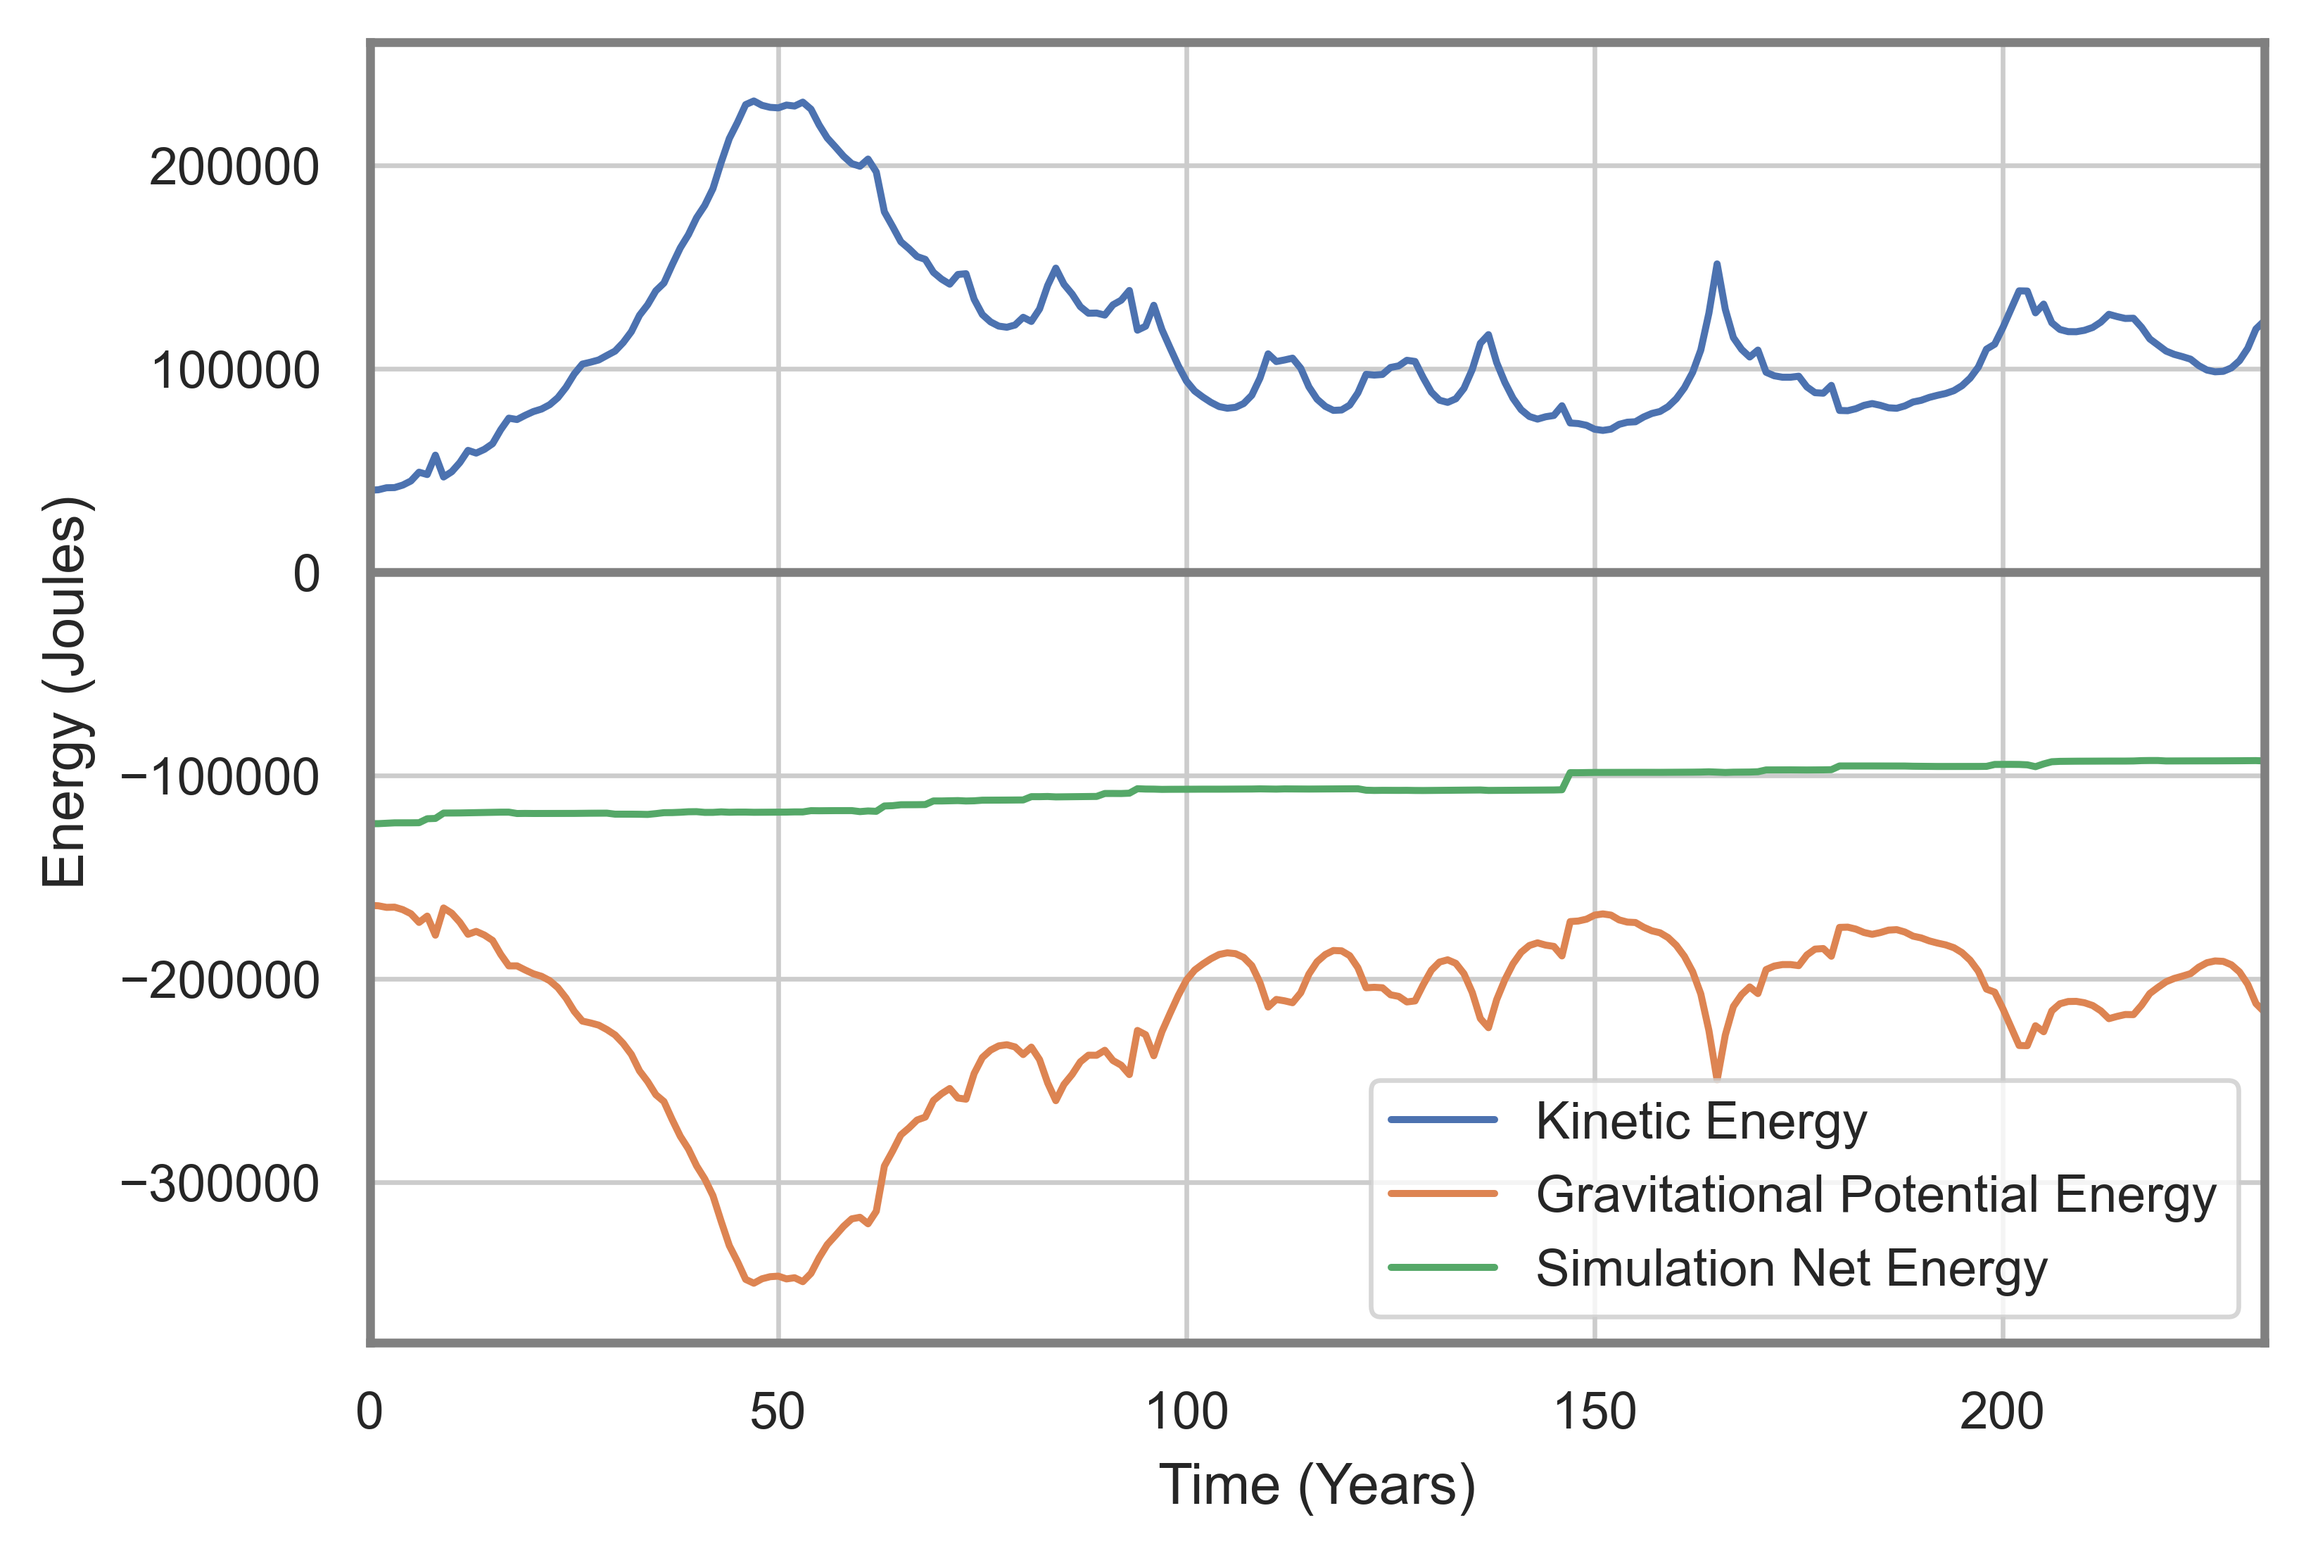
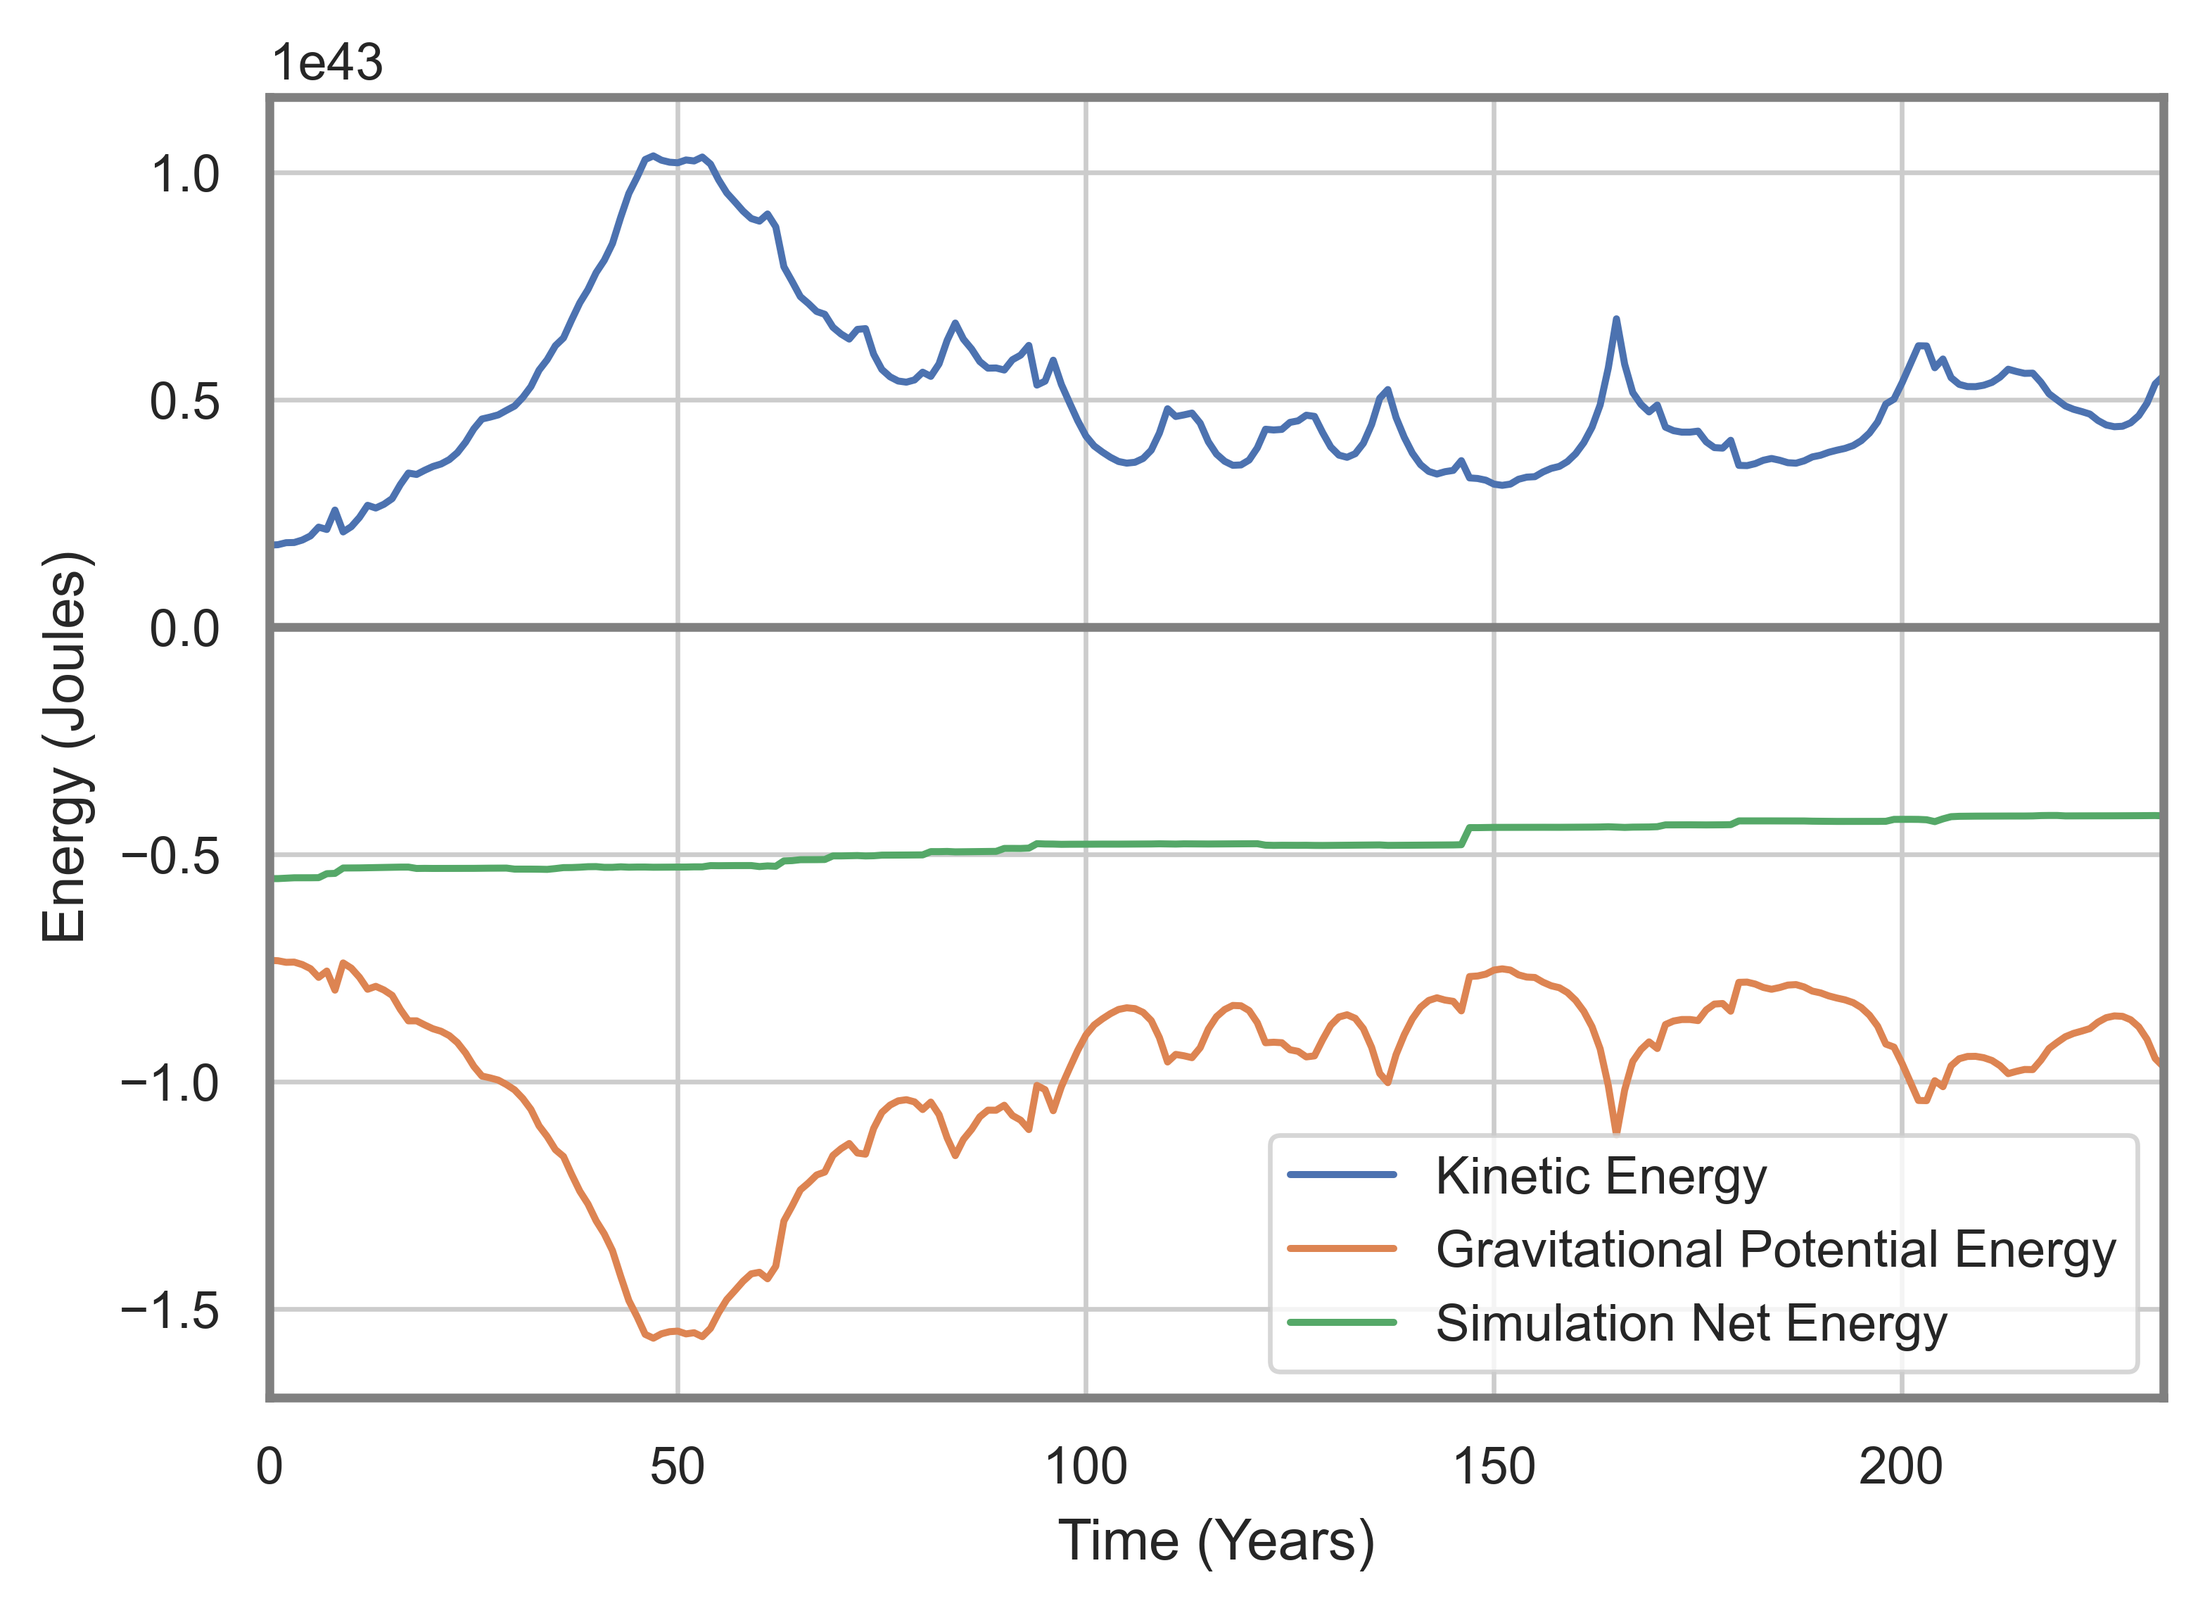
sync

diff --git a/python ultils/simulation-data.py b/python ultils/simulation-data.py
@@ -1,25 +1,23 @@
 # %%
 import pandas as pd
 import seaborn as sns
+import matplotlib.pyplot as plt 
+
 
 sns.set_theme(context="paper", style="whitegrid")
 
+smass = 1.989e30
+au = 1.496e11
+year_S = 3.154e7
+
+energy_factor = smass*au*au/(year_S*year_S)
 
 df =  pd.read_csv(r"C:\Users\tom\Desktop\gravityZucc\C# Version\V1\standard.csv")
 df
 # %%
-t_ener = df.groupby("time")[["ke","pe"]].sum()
+t_ener = df.groupby("time")[["ke","pe"]].sum()*energy_factor
 t_ener["te"] = t_ener["ke"] + t_ener["pe"]
 
-
-# %%
-df2 =pd.read_csv(r"C:\Users\tom\Desktop\gravityZucc\C# Version\V1\timewarpedx20.csv")
-
-t_ener2 = df2.groupby("time")[["ke","pe"]].sum()
-t_ener2["te"] = t_ener2["ke"] + t_ener2["pe"]
-
-
-import matplotlib.pyplot as plt 
 
 fig1, ax1 = plt.subplots(figsize=(5.78851,4))
 
@@ -36,6 +34,11 @@ ax1.legend()
 fig1.savefig("Energy plot for 1x",dpi=600,bbox_inches = 'tight')
 
 # %%
+df2 =pd.read_csv(r"C:\Users\tom\Desktop\gravityZucc\C# Version\V1\timewarpedx20.csv")
+
+t_ener2 = df2.groupby("time")[["ke","pe"]].sum() * energy_factor
+t_ener2["te"] = t_ener2["ke"] + t_ener2["pe"]
+
 fig2, ax2 = plt.subplots(figsize=(7,5))
 
 ax2.plot(t_ener["te"], label="Timewarp = 1")
@@ -77,7 +80,20 @@ ax3.legend()
 # to keep the varibales of the simulations within reasonable bounds
 
 # %%
+df4 = pd.read_csv(r"C:\Users\tom\Desktop\gravityZucc\C# Version\V1\lesscollisions.csv")
+
+
+t_ener4 = df4.groupby("time")[["ke","pe"]].sum()
+t_ener4["te"] = t_ener4["ke"] + t_ener4["pe"]
+fig4, ax4 = plt.subplots()
+
+ax4.plot(t_ener4["te"], label="Total Energy")
 
 
 
 
+
+
+
+
+# %%
